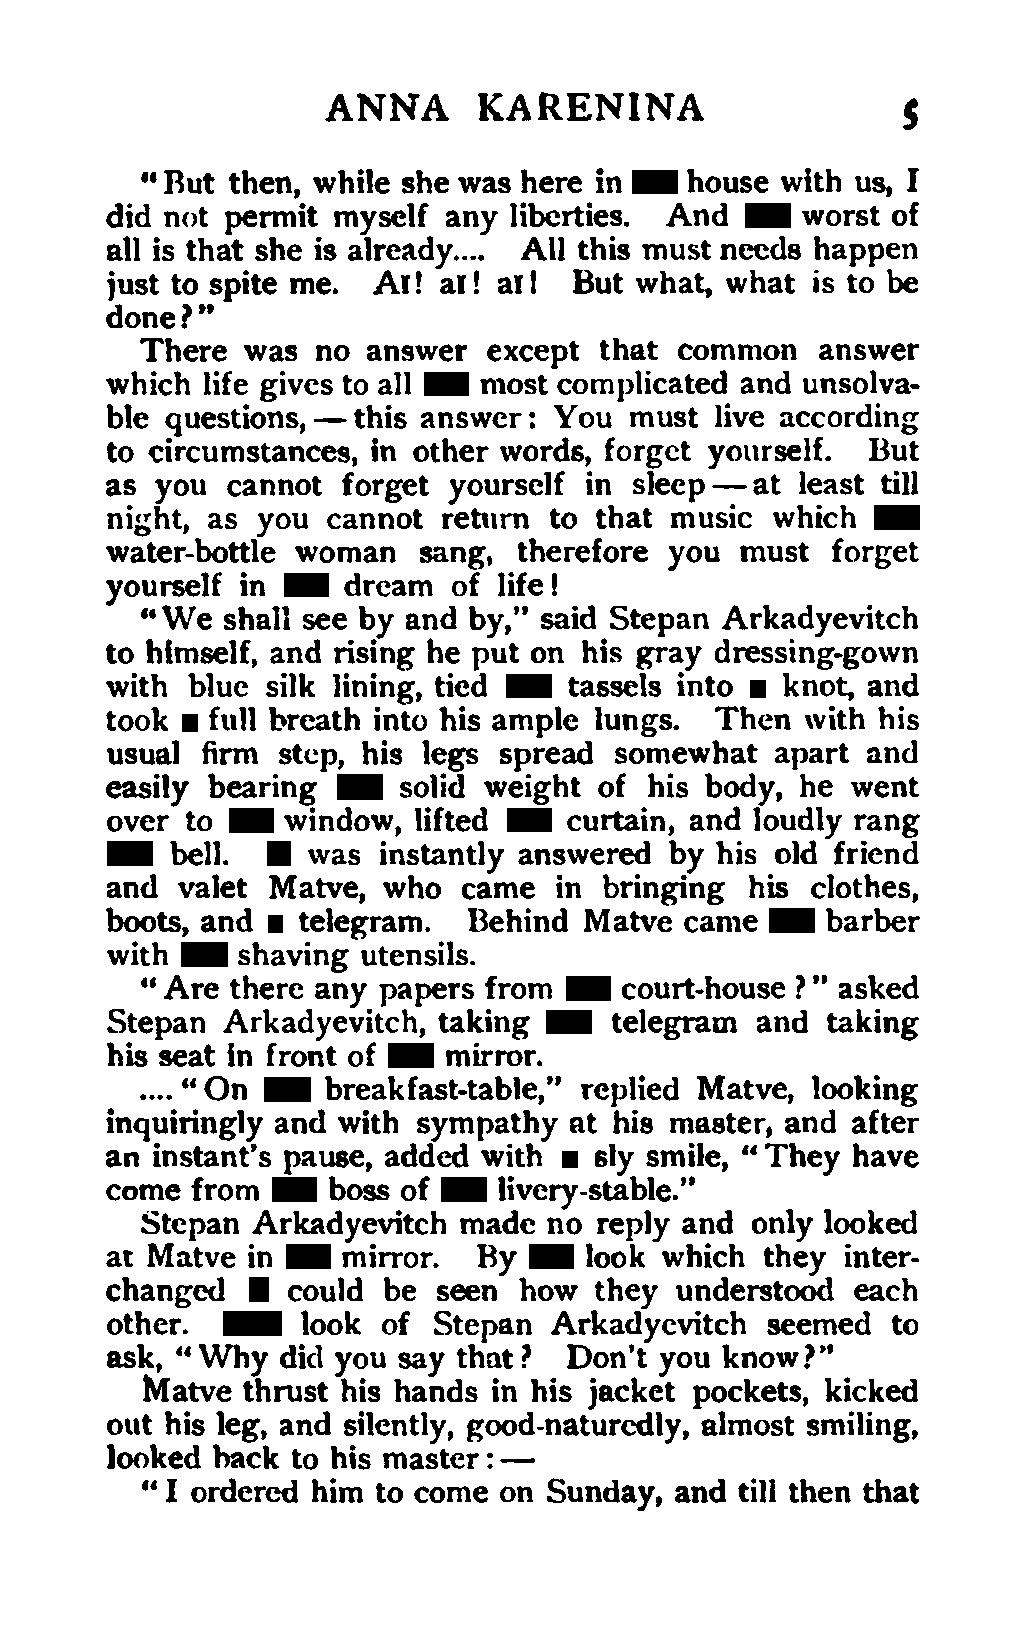
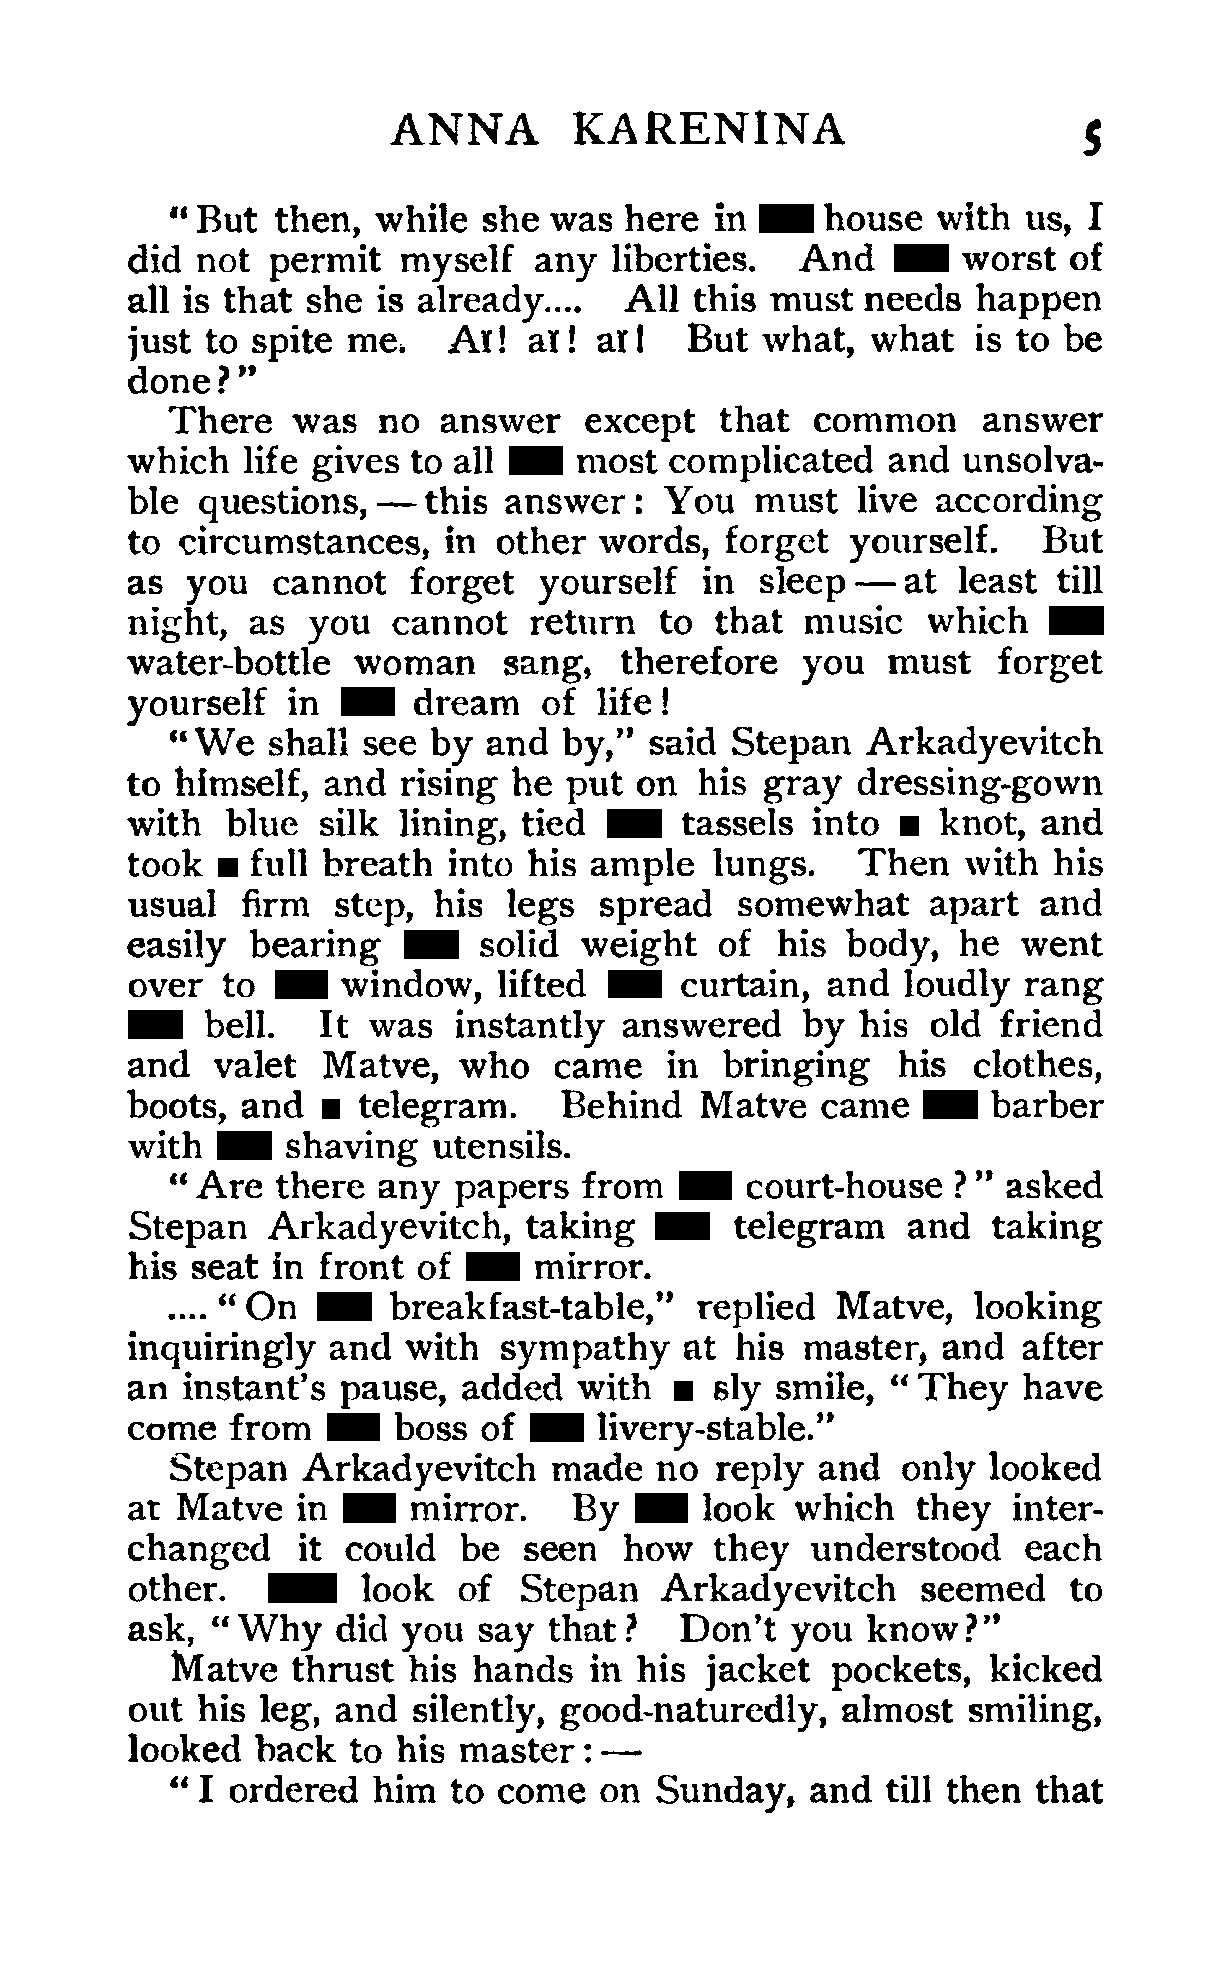
preprocessing fixes

diff --git a/project.cpp b/project.cpp
@@ -44,23 +44,26 @@ int main(int argc, char* argv[]) {
   Mat image_gray;
   cvtColor(image, image_gray, COLOR_BGR2GRAY);
 
-  // 3x3 averaging filter to blur image and remove noise
+  // Rescale image for better legibility
+  Mat image_scaled;
+  resize(image_gray, image_scaled, Size(0,0), 1.2, 1.2, INTER_CUBIC);
+
+  // Gaussian blur the image to remove noise
   Mat image_blur;
-  blur(image_gray, image_blur, Size(3, 3));
+  GaussianBlur(image_scaled, image_blur, Size(0,0), 33, 33);
+  divide(image_scaled, image_blur, image_blur, 255);
 
   // Binarization mask to convert text to 255 and everything else to 0
   Mat image_thresh;
   threshold(image_blur, image_thresh, 0, 255, THRESH_BINARY_INV + THRESH_OTSU);
 
-  // Deskew code based on modified version of code from
-  // http://felix.abecassis.me/2011/10/opencv-rotation-deskewing/ Find all
-  // points in skewed image
+  // Modified deskew code based on original code from
+  // http://felix.abecassis.me/2011/10/opencv-rotation-deskewing/
+  // Find all points in skewed image
   vector<Point> points;
-  Mat_<uchar>::iterator curr = image_thresh.begin<uchar>();
-  Mat_<uchar>::iterator end = image_thresh.end<uchar>();
-  for (; curr != end; ++curr) {
-    if (*curr) {
-      points.push_back(curr.pos());
+  for (Mat_<uchar>::iterator it = image_thresh.begin<uchar>(); it != image_thresh.end<uchar>(); ++it) {
+    if (*it) {
+      points.push_back(it.pos());
     }
   }
 
@@ -77,8 +80,9 @@ int main(int argc, char* argv[]) {
   // Invert binarization mask so Tesseract can read it more accurately
   bitwise_not(image_rot, image_rot);
 
-  // Tesseract API code based on code from:
+  // Modified Tesseract API code based on original examples from
   // https://medium.com/building-a-simple-text-correction-tool/basic-ocr-with-tesseract-and-opencv-34fae6ab3400
+  // https://tesseract-ocr.github.io/tessdoc/APIExample.html
   // Initialize optical character recognition library
   TessBaseAPI* ocr = new TessBaseAPI();
   ocr->Init(NULL, "eng", OEM_LSTM_ONLY);
@@ -120,9 +124,7 @@ int main(int argc, char* argv[]) {
   }
   */
 
-  // Result iterator code based on modified example from Tesseract
-  // documentation: https://tesseract-ocr.github.io/tessdoc/APIExample.html Go
-  // through every word detected
+  // Go through every word detected
   if (it != 0) {
     do {
       // Detect bounding box coordinates from image using Tesseract
